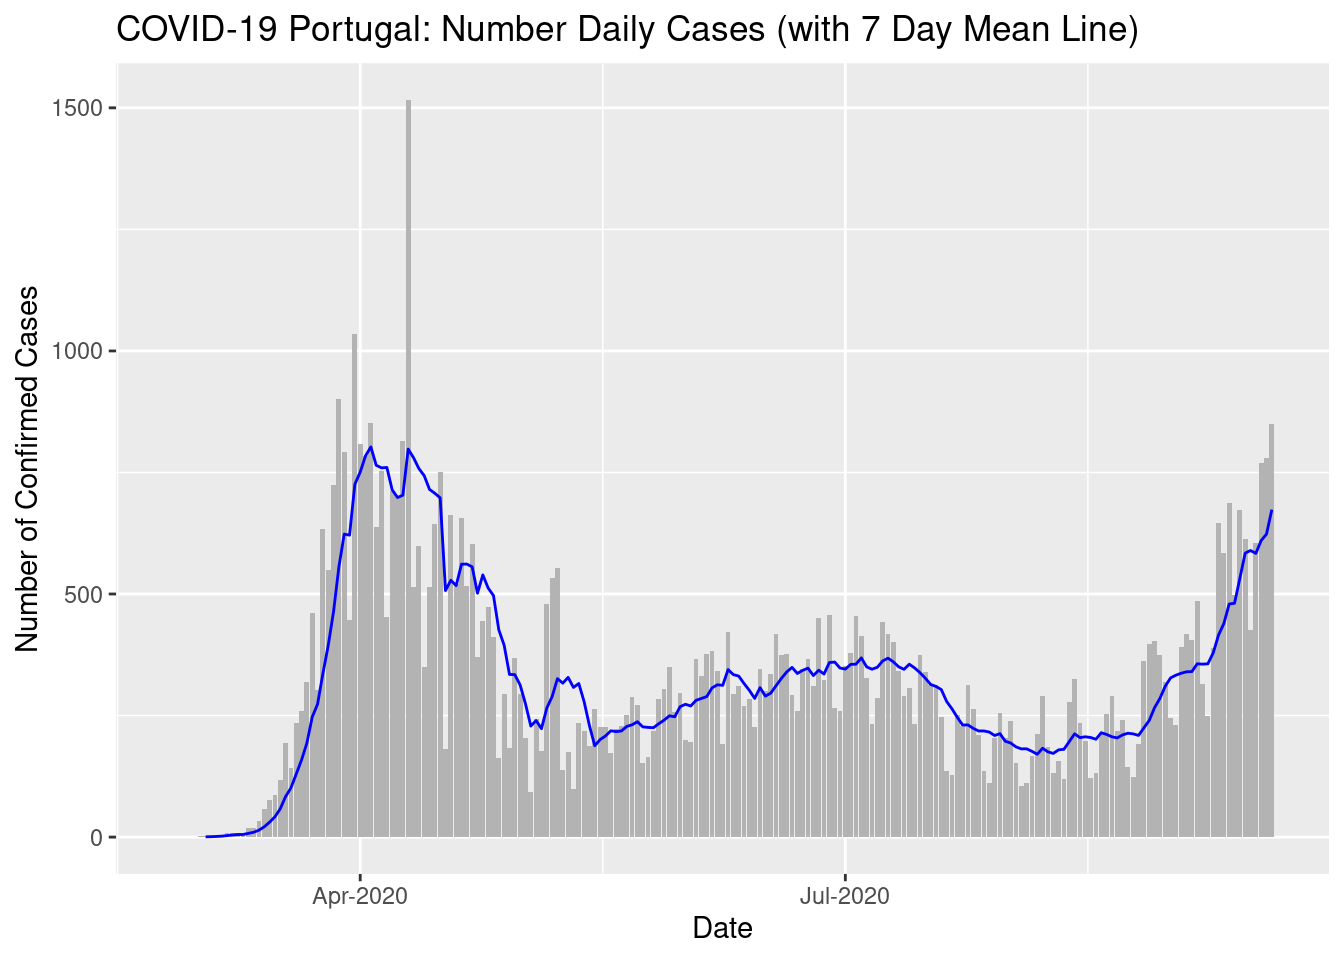
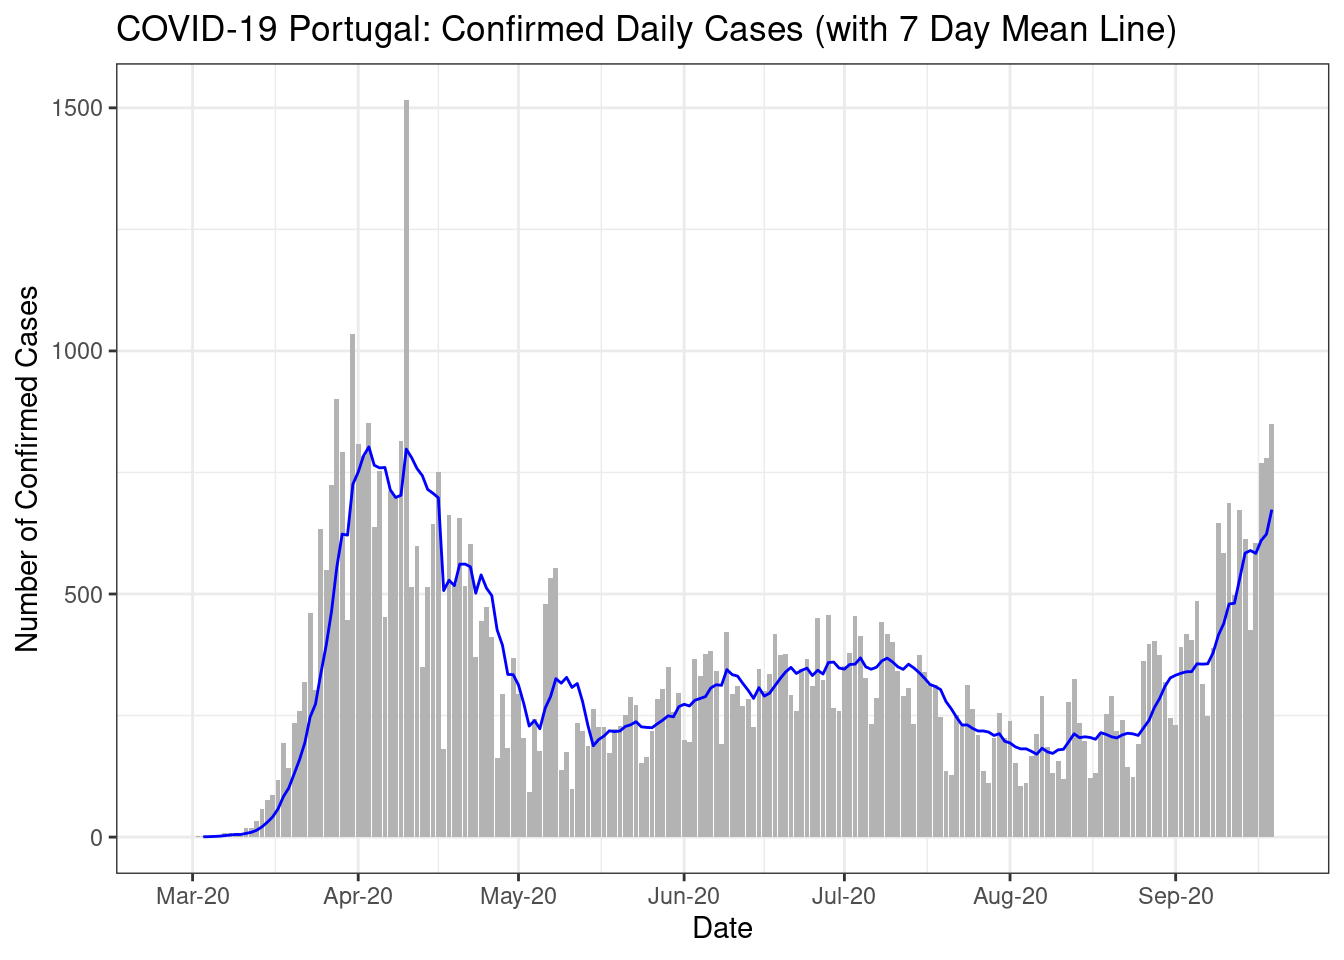
Updated confirmed cases with BW theme and better x axis labelling

diff --git a/README.md b/README.md
@@ -4,7 +4,7 @@ README](https://github.com/CEAUL/Dados_COVID-19_PT/workflows/Render%20README/bad
 
 ## Daily Portuguese COVID-19 Data
 
-**Last updated: Mon 21 Sep 2020 (12:02:33 WEST \[+0100\])**
+**Last updated: Mon 21 Sep 2020 (13:44:06 WEST \[+0100\])**
 
   - Data available from **26 Feb 2020** until **19 Sep 2020** (207
     days).
